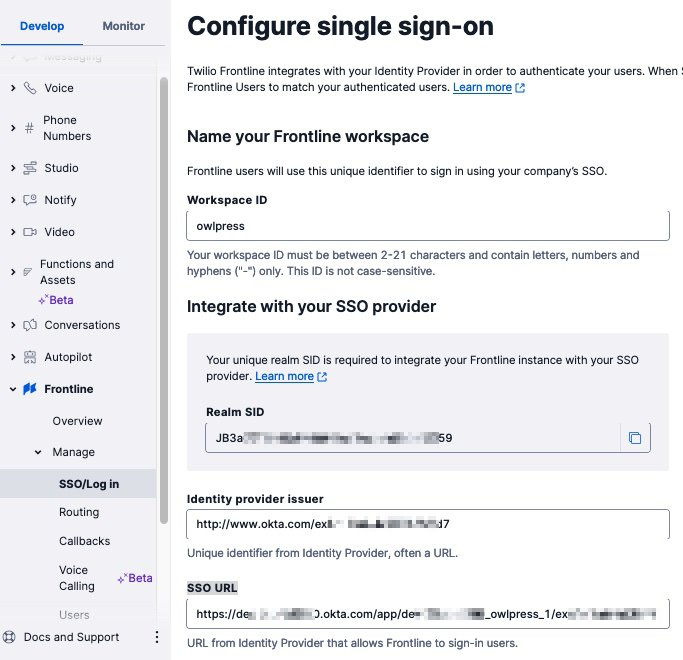
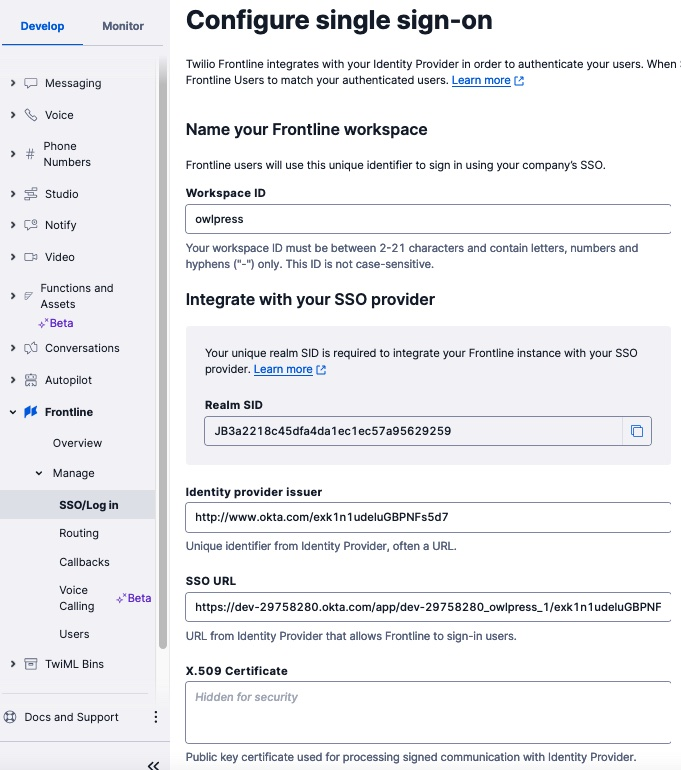
update

diff --git a/README.md b/README.md
@@ -142,21 +142,57 @@ https://www.twilio.com/docs/frontline/sso/okta
 6. Assign Users to the Application
 7. Configure Frontline with your new SAML credentials: paste Okta information into your Twilio Frontline SSO configurations.
 ````
+Okta SAML setting:
 
 <img src="FrontlineOktaSaml1a.jpg" width="400"/>
 
 --------------------------------------------------------------------------------
 ## Frontline Twilio Console Configurations
 
-<img src="frontlineSsoOkta.jpg" width="400"/>
+Twilio console: Develop/Frontline/Manage/SSO/Log in
++ Frontline Workspace ID
++ Realm SID: JB id autogenerated when having clicked, Create, in Twilio console: Develop/Frontline/Overview
++ Okta value for: Identity provider issuer
++ Okta value for: SSO URL
++ Okta value for: X.509 Certificate
 
-<img src="FrontlineCallbacks.jpg" width="400"/>
+<img src="frontlineSsoOkta.jpg" width="600"/>
 
-<img src="FrontlineConversationsDefaults.jpg" width="400"/>
+Twilio console: Develop/Frontline/Manage/Callbacks
++ Note, the 3 URLs are the same, which matches how the [webserver.js](webserver.js) handles requests.
+````
+app.post("/frontline", function (req, res) {
+...
+}
+````
 
-<img src="FrontlineMSintegration.jpg" width="400"/>
+<img src="FrontlineCallbacks.jpg" width="600"/>
 
-<img src=FrontlineMSsenderPool.jpg" width="400"/>
+Twilio console: Develop/Frontline/Overview
++ For configuration of: Conversations service name and Conversations service SID, 
+See Conversations configurations.
+
+<img src="FrontlineOverview.jpg" width="600"/>
+
+Twilio console: Develop/Conversations,Defaults:
+
+<img src="FrontlineConversationsDefaults.jpg" width="600"/>
+
+Twilio console: Develop/Messaging Services, 
+click the Frontline Conversation Messaging service SID, for example: MG634319110a48b2e82f1a08247cd8f0ba
+
+Messaging service SID/Integration, enabled: Autocreate a Conversation
+
+<img src="FrontlineMSintegration.jpg" width="600"/>
+
+Twilio console: Develop/Messaging Services, 
+click the Frontline Conversation Messaging service SID, for example: MG634319110a48b2e82f1a08247cd8f0ba
+
+<img src="FrontlineConversationsList.jpg" width="600"/>
+
+Messaging service SID/Sender Pool, with the Twilio phone number used to send Conversations SMS messages.
+
+<img src=FrontlineMSsenderPool.jpg" width="600"/>
 
 --------------------------------------------------------------------------------
 ## Using Frontline with the Twilio WhatsApp Sandbox
